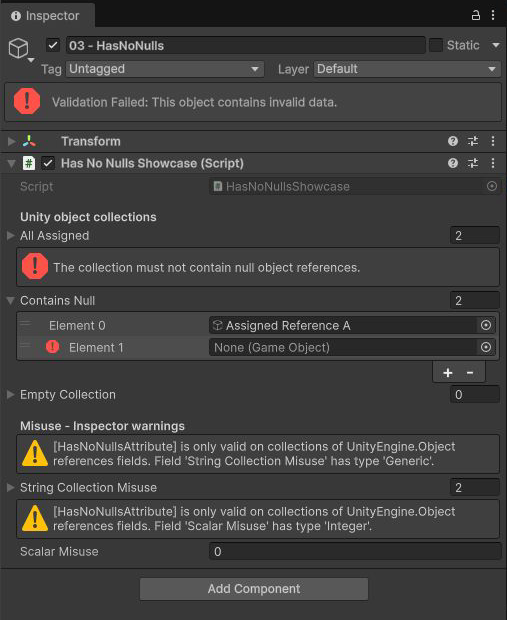
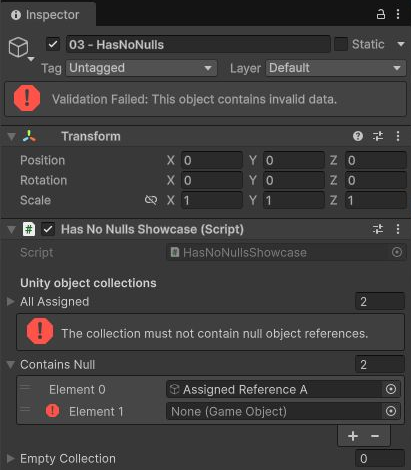
docs: refresh attribute guide and screenshots

Changed region(s): [[0.0, 0.0, 1.0, 1.0], [0.8759, 0.9532, 0.9051, 1.0]]

diff --git a/README.md b/README.md
@@ -99,15 +99,78 @@ public sealed class EnemyConfig : MonoBehaviour
 Invalid fields display an error in the Inspector. The owning component, GameObject, or asset also
 receives validation feedback in the relevant Editor window.
 
+## Editor feedback
+
+Validation failures appear beside the affected field in the Inspector. The owning GameObject and
+scene or asset are also labelled red in the Hierarchy and Project windows, making invalid content
+visible without opening every object. The screenshots below were captured in Unity 6.6.
+
+<img src="docs/images/validation-overview.png" width="775" alt="Unity 6.6 Editor showing validation messages in the Inspector and red invalid labels in the Hierarchy and Project windows">
+
 ## Attribute reference
 
-| Attribute | Supported serialized fields | Rule |
-| --- | --- | --- |
-| `[NotNull]` | `UnityEngine.Object` references | The reference must be assigned. Destroyed Unity objects count as null. |
-| `[NotEmpty]` | Strings, arrays, lists, and Unity 6.6+ dictionaries | The value must be non-null and contain at least one character or effective element. |
-| `[HasNoNulls]` | Arrays/lists of `UnityEngine.Object` references and Unity 6.6+ dictionaries with object values | No element or dictionary value may be null or destroyed. An empty collection passes. |
-| `[HasNoEmpties]` | Arrays/lists of strings and Unity 6.6+ dictionaries with string values | No element or dictionary value may be null or empty. An empty collection passes. |
-| `[IsValid]` | Serializable classes, structs, arrays, lists, Unity 6.6+ dictionary values, and supported `[SerializeReference]` values | Recursively validates the nested serialized data. Null objects and null or empty collections are skipped. |
+### `[NotNull]`
+
+Use `[NotNull]` for a serialized `UnityEngine.Object` reference that must be assigned, such as a
+target `Transform`, prefab, material, or configuration asset. A missing or destroyed Unity object
+fails validation.
+
+```csharp
+[SerializeField, NotNull] private Transform m_Target;
+```
+
+<img src="docs/images/not-null-inspector.png" width="411" alt="Unity Inspector showing a NotNull failure on an unassigned Transform">
+
+### `[NotEmpty]`
+
+Use `[NotEmpty]` for a string that must contain text or a collection that must contain at least one
+effective element. Typical examples are identifiers, display names, spawn-point lists, and lookup
+dictionaries that are not useful when empty.
+
+```csharp
+[SerializeField, NotEmpty] private string m_Id;
+```
+
+<img src="docs/images/not-empty-inspector.png" width="411" alt="Unity Inspector showing NotEmpty failures on empty strings and collections">
+
+### `[HasNoNulls]`
+
+Use `[HasNoNulls]` when every entry in a collection of `UnityEngine.Object` references must be
+assigned—for example, a list of prefabs that will all be instantiated. Arrays and lists are
+supported, as are Unity 6.6+ dictionaries with object-reference values. Empty collections pass;
+combine this attribute with `[NotEmpty]` when at least one entry is also required.
+
+```csharp
+[SerializeField, HasNoNulls] private List<GameObject> m_Prefabs = new();
+```
+
+<img src="docs/images/has-no-nulls-inspector.png" width="411" alt="Unity Inspector showing a HasNoNulls failure and the null collection element">
+
+### `[HasNoEmpties]`
+
+Use `[HasNoEmpties]` for a collection of strings where every entry must contain text, such as tags,
+localization keys, or item identifiers. Arrays and lists are supported, as are Unity 6.6+
+dictionaries with string values. Empty collections pass; add `[NotEmpty]` if the collection itself
+must also contain an entry.
+
+```csharp
+[SerializeField, HasNoEmpties] private List<string> m_Tags = new();
+```
+
+<img src="docs/images/has-no-empties-inspector.png" width="411" alt="Unity Inspector showing HasNoEmpties failures and an empty string element">
+
+### `[IsValid]`
+
+Use `[IsValid]` for nested serialized configuration whose own attributed fields and custom
+validation rules must pass. It supports serializable classes and structs, their arrays and lists,
+Unity 6.6+ dictionary values, and supported `[SerializeReference]` values. A summary message remains
+visible above a collapsed invalid field so the nested failure is easy to locate.
+
+```csharp
+[SerializeField, IsValid] private Stats m_Stats = new();
+```
+
+<img src="docs/images/is-valid-inspector.png" width="411" alt="Unity Inspector showing recursive IsValid failures and collapsed-field summaries">
 
 Combine collection attributes when the contract requires more than one guarantee. For example,
 `[NotEmpty, HasNoNulls]` requires at least one element and rejects null elements.
@@ -133,37 +196,6 @@ dictionary fields. Earlier Unity versions continue to treat dictionary fields as
 
 Unsupported attribute placements produce an Inspector warning instead of silently promising a rule
 that Unity cannot serialize or inspect.
-
-## Inspector examples
-
-The showcase scene pairs valid values with intentional failures and unsupported placements. Red
-messages identify invalid data; yellow messages explain attribute placements that Unity cannot
-validate.
-
-<table>
-  <tr>
-    <th><code>[NotNull]</code></th>
-    <th><code>[NotEmpty]</code></th>
-  </tr>
-  <tr>
-    <td><img src="docs/images/not-null-inspector.png" alt="Unity Inspector showing NotNull validation"></td>
-    <td><img src="docs/images/not-empty-inspector.png" alt="Unity Inspector showing NotEmpty validation"></td>
-  </tr>
-  <tr>
-    <th><code>[HasNoNulls]</code></th>
-    <th><code>[HasNoEmpties]</code></th>
-  </tr>
-  <tr>
-    <td><img src="docs/images/has-no-nulls-inspector.png" alt="Unity Inspector showing HasNoNulls validation"></td>
-    <td><img src="docs/images/has-no-empties-inspector.png" alt="Unity Inspector showing HasNoEmpties validation"></td>
-  </tr>
-  <tr>
-    <th colspan="2"><code>[IsValid]</code></th>
-  </tr>
-  <tr>
-    <td colspan="2" align="center"><img src="docs/images/is-valid-inspector.png" width="507" alt="Unity Inspector showing recursive IsValid validation"></td>
-  </tr>
-</table>
 
 ## Recursive validation
 
